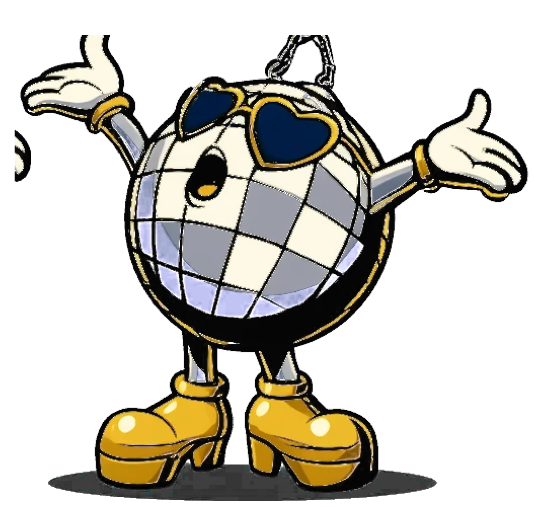
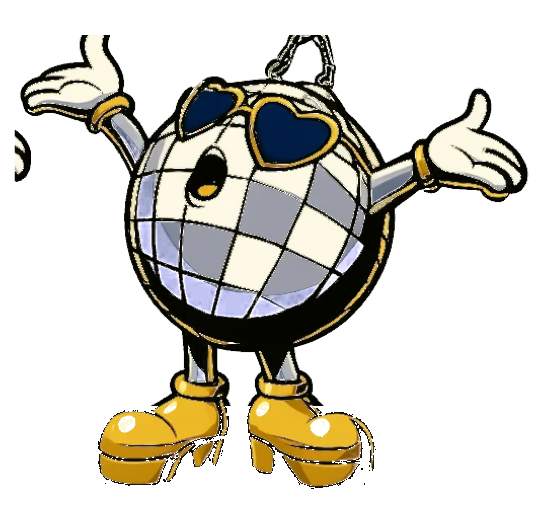
BALLROOM : l'ombre de Mira, la même sous chaque pose (celles des planches retirées : asset_prep --drop-hue)

Changed region(s): [[0.0899, 0.7988, 0.839, 1.0], [0.5693, 0.1775, 0.6292, 0.2367]]

diff --git a/tools/asset_prep/Main.cpp b/tools/asset_prep/Main.cpp
@@ -25,6 +25,13 @@
 // hue (degrees) lies in [hueFrom, hueTo] (and has some colour) is turned by
 // hueShift degrees, its saturation and brightness scaled — a character drawn
 // blue brought to the plugin's own colour; outlines, whites, creams untouched.
+//
+// --drop-hue <hueFrom>,<hueTo>,<minSat>,<bottomFraction>: in the bottom
+// fraction of each frame, every pixel whose hue lies in [hueFrom, hueTo] with
+// at least minSat saturation becomes transparent, and so does every dark
+// half-transparent one (the keyed shadow's core; the outlines are opaque):
+// a ground shadow tinted by the sheet's background, removed — the plugin
+// draws its own.
 
 #include <juce_graphics/juce_graphics.h>
 #include <iostream>
@@ -659,6 +666,27 @@ int main (int argc, char** argv)
             g.drawImageTransformed (f.image, juce::AffineTransform::translation ((float) -f.anchorX, (float) -f.anchorY)
                                                  .scaled (s)
                                                  .translated ((float) half * outScale, (float) (up + 6) * outScale));
+        }
+        if (const int di = args.indexOf ("--drop-hue"); di >= 0 && di + 1 < args.size())
+        {
+            const auto v = juce::StringArray::fromTokens (args[di + 1], ",", "");
+            if (v.size() == 4)
+            {
+                const float from = v[0].getFloatValue() / 360.0f, to = v[1].getFloatValue() / 360.0f, minSat = v[2].getFloatValue();
+                const int y0 = juce::roundToInt ((float) h * (1.0f - v[3].getFloatValue()));
+                juce::Image::BitmapData d (frame, juce::Image::BitmapData::readWrite);
+                for (int y = juce::jmax (0, y0); y < h; ++y)
+                    for (int x = 0; x < w; ++x)
+                    {
+                        const auto c = d.getPixelColour (x, y);
+                        if (c.getAlpha() == 0)
+                            continue;
+                        const bool tinted = c.getSaturation() >= minSat && c.getHue() >= from && c.getHue() <= to;
+                        const bool shadowCore = c.getBrightness() < 0.3f && c.getAlpha() < 200;
+                        if (tinted || shadowCore)
+                            d.setPixelColour (x, y, juce::Colours::transparentBlack);
+                    }
+            }
         }
         if (const int ri = args.indexOf ("--recolour"); ri >= 0 && ri + 1 < args.size())
         {

diff --git a/plugins/ballroom/Source/MiraMascot.cpp b/plugins/ballroom/Source/MiraMascot.cpp
@@ -77,6 +77,16 @@ int MiraMascot::chooseFrame (float macro, float bypass, bool musicOn)
 
 void MiraMascot::paintBehind (juce::Graphics& g, const State& st, juce::Rectangle<float> figure)
 {
+    // her ground shadow, the same under every pose (the sheets' own, tinted
+    // by their green, are removed: scripts/make_mira_frames.sh)
+    {
+        const auto feet = juce::Rectangle<float> (figure.getWidth() * 0.46f, figure.getHeight() * 0.075f)
+                              .withCentre ({ figure.getCentreX(), figure.getBottom() - figure.getHeight() * 0.035f });
+        juce::ColourGradient shadow (juce::Colour (0xff07050c).withAlpha (0.55f), feet.getCentre(), juce::Colour (0xff07050c).withAlpha (0.0f),
+                                     { feet.getRight(), feet.getCentreY() }, true);
+        g.setGradientFill (shadow);
+        g.fillEllipse (feet);
+    }
     // light spots turning round her, more and wider as SPACE goes up
     const float dim = 1.0f - 0.7f * st.bypass;
     const int count = 4 + (int) std::round (14.0f * space);

diff --git a/DECISIONS.md b/DECISIONS.md
@@ -805,3 +805,4 @@ Une ligne par décision : **contexte** — choix — raison.
 - **Mira** (21 poses : cinq planches 2 × 2 et la pose de héros, `scripts/make_mira_frames.sh` ; les ombres vertes des planches passées en gris) : sa pose suit SPACE (balancement → bras ouverts → le doigt disco → bras levés, un tour sur elle-même tout en haut), changée sur le temps quand la musique joue ; FREEZE : elle se fige, mains levées ; bypass : au repos. En code : des taches de lumière tournent autour d'elle (plus nombreuses et plus rapides avec SPACE, immobiles en FREEZE) et ses facettes scintillent avec le niveau de la réverb.
 - Plateaux d'absorption : trois en cascade essayés pour l'aigu le plus court (HIGH ×0,1) : sans effet — c'était la mesure : la transition du plateau, qui décroît plus lentement, fuyait dans une bande trop proche (9–14 kHz) ; l'aigu se mesure entre 10 et 16 kHz (au moins une octave au-dessus de HIGH XOVER). Deux plateaux gardés.
 - **Tests `bl_` (10)** : MIX 0 = l'entrée ; RT60 à moins de 15 % (0,5 / 2 / 8 s) ; grave et aigu à moins de 20 % des multiplicateurs ; pas de clic (mode, tailles, FREEZE) ; FREEZE une minute sans croître ; aucune allocation dans processBlock (changement de mode compris) ; la macro et CUSTOM ; presets, état ; chaque preset sonne ; **CPU 1,15 % d'un cœur** (M1 Pro, stéréo 48 kHz ; la mesure à 7,9 % de l'étape 4 avait été faite pendant un build).
+- **L'ombre de Mira** (Alan : « l'ombre n'est pas tout le temps la même couleur et c'est verdâtre ») : les ombres des planches, teintées par leur fond vert et chacune d'une nuance, sont retirées (`asset_prep --drop-hue`, nouveau : dans le bas de l'image, les pixels de teinte verte à bleu-vert, et les pixels sombres à demi transparents — le cœur de l'ombre détourée ; les contours, opaques, restent) ; `MiraMascot` dessine une seule ombre, la même sous chaque pose (une ellipse de la nuit, en dégradé).
